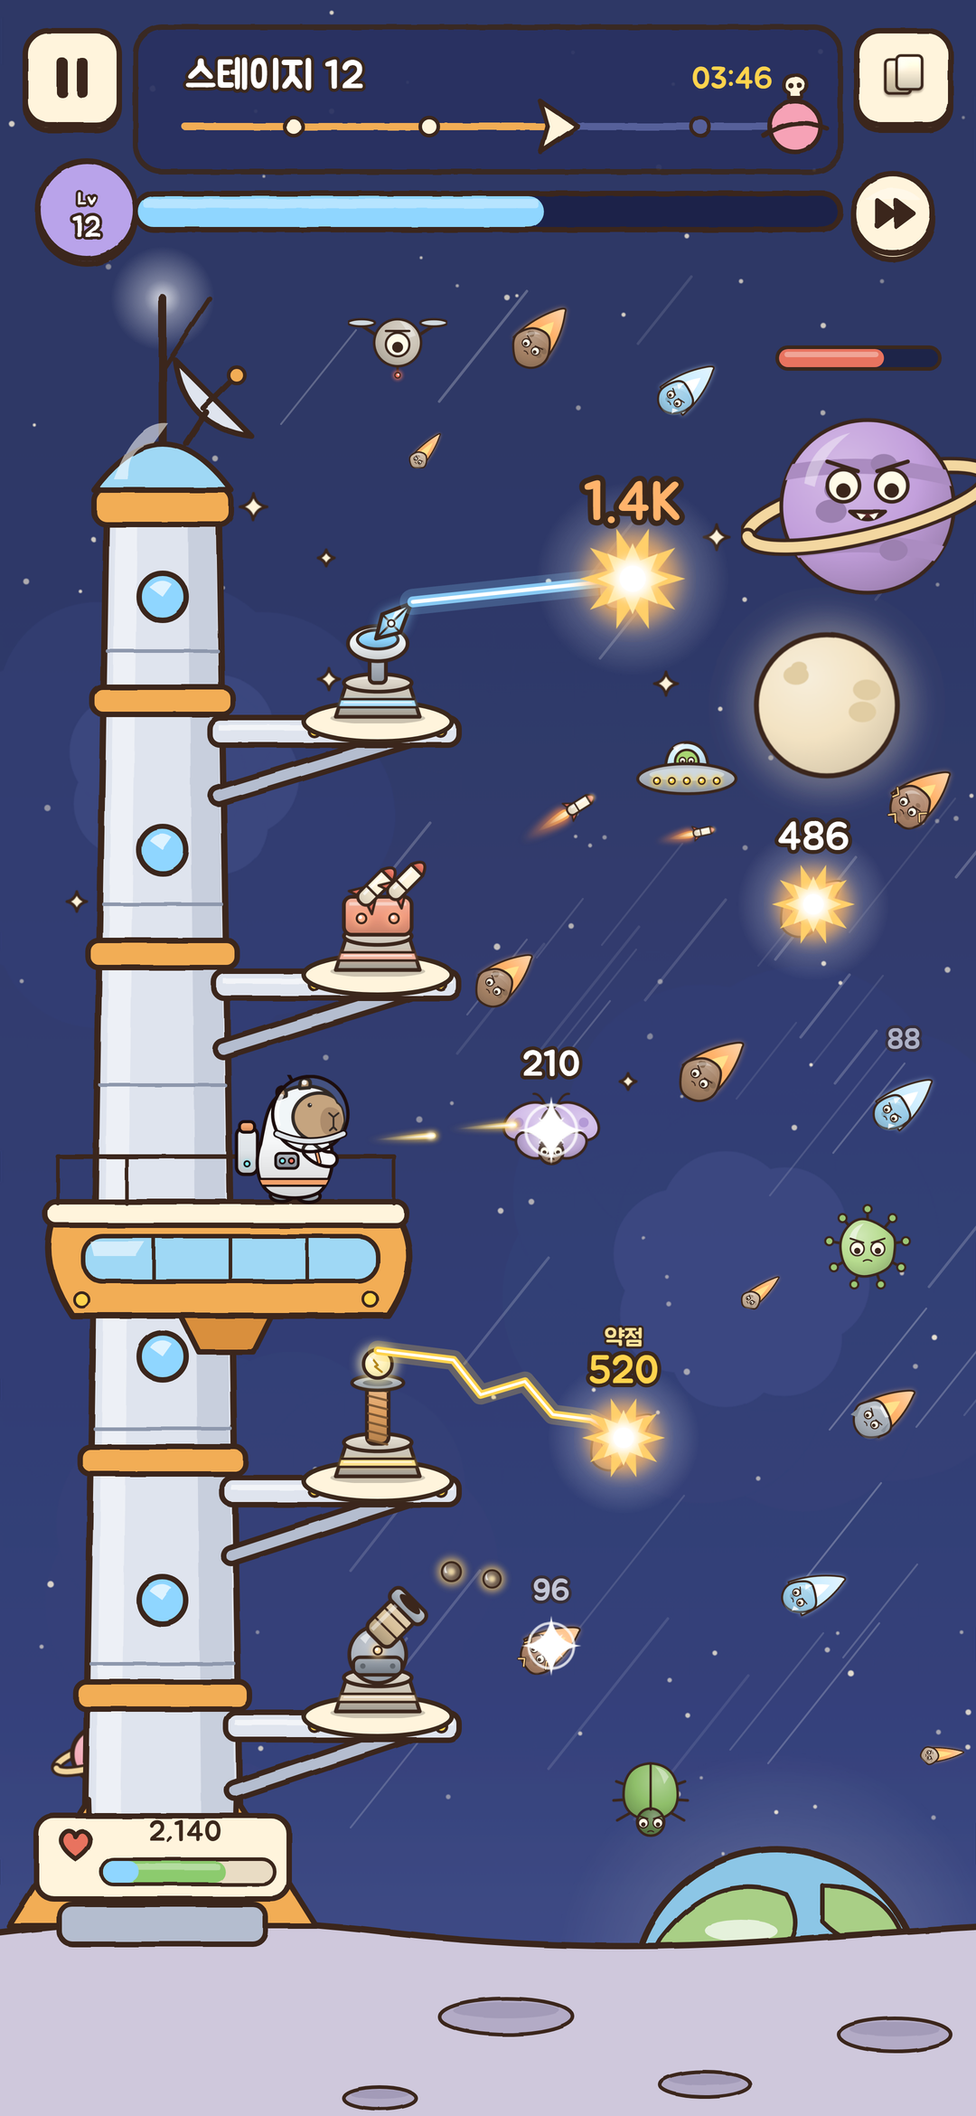
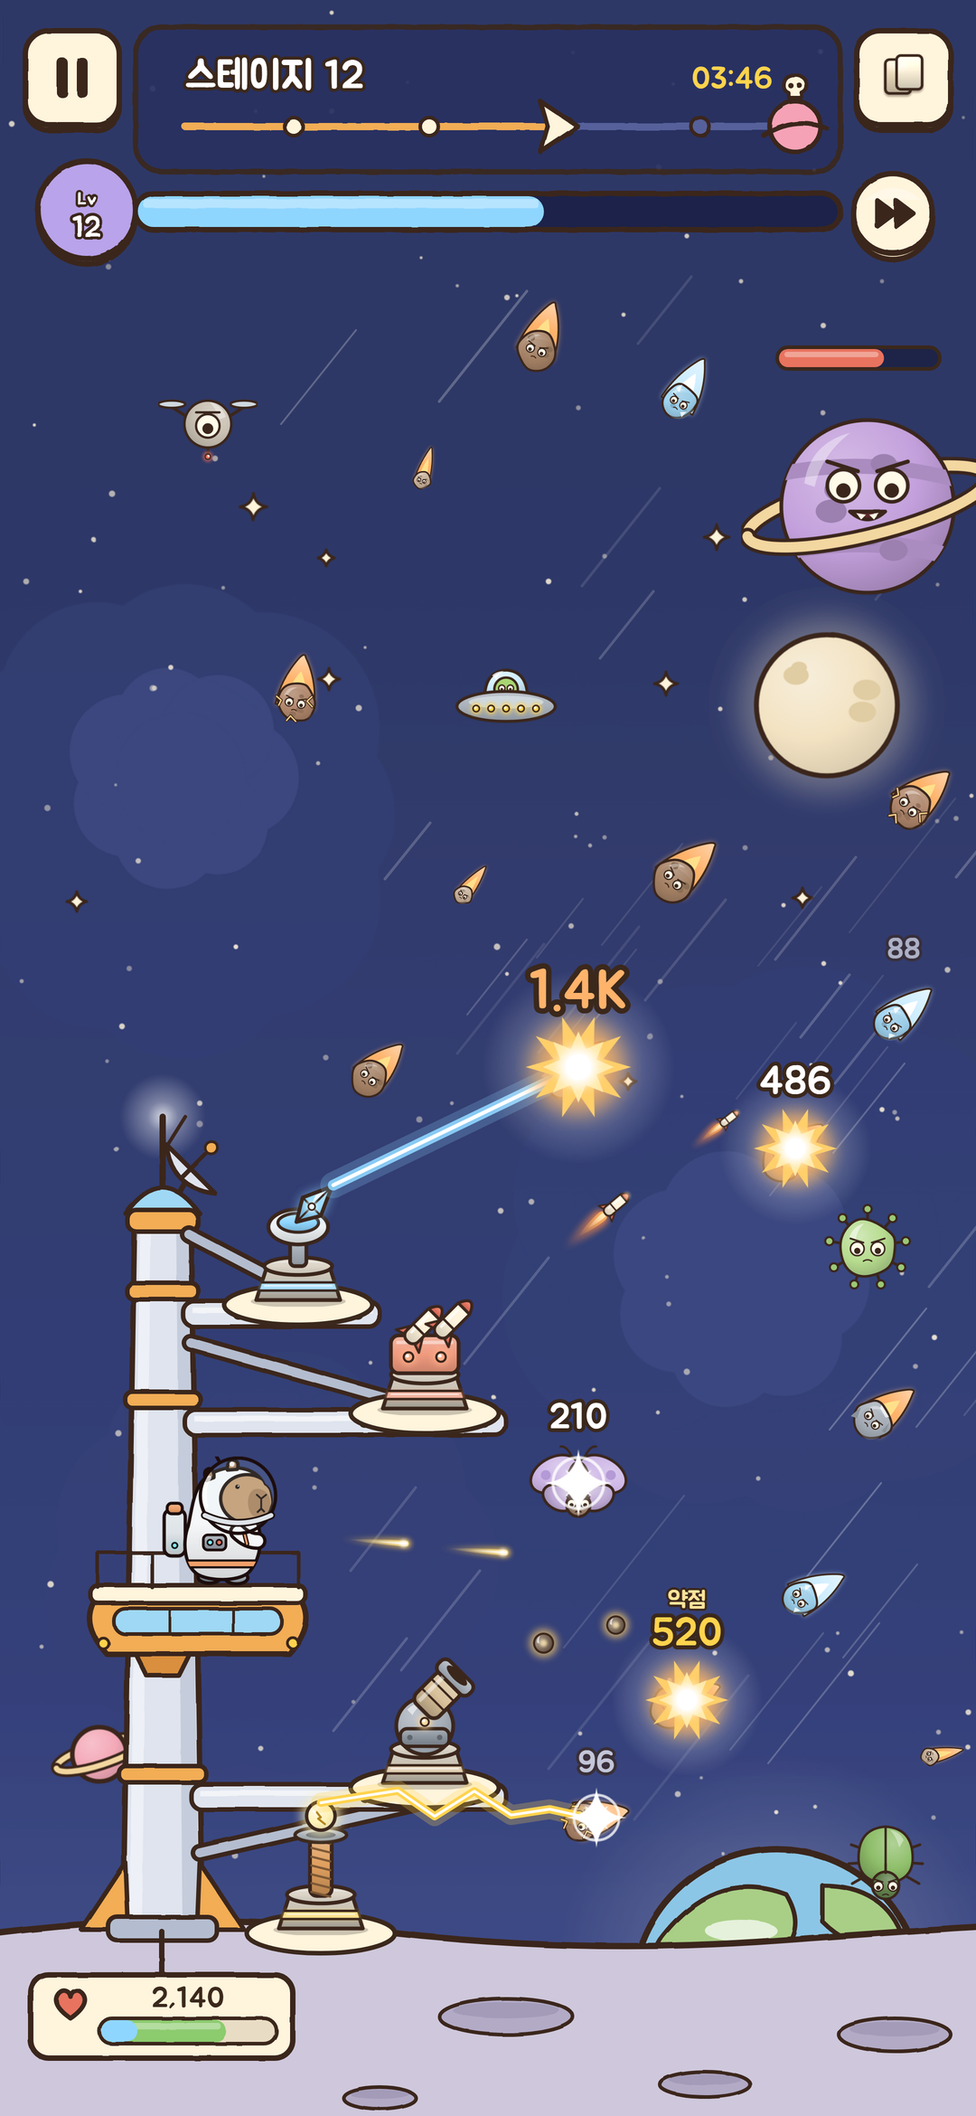
전투 배치 시안: 우주 사령탑 크기 절반 — 탑 그림만 0.5배(K 값), 터렛 4칸 '>' 모양 · 위 칸은 위에서 당기는 버팀대 · 맨 아래 칸 달 바닥 · 체력판 바닥으로, 전·뒤 그림

diff --git a/전투배치_시안.html b/전투배치_시안.html
@@ -45,14 +45,19 @@
 </ol></div>
 
 <h2>우주 사령탑 — 대장 카피 가운데, 위 2칸 · 아래 2칸</h2>
-<div class="cc"><figure><a href="캡쳐본 모음/전투배치_시안/command.png"><img src="캡쳐본 모음/전투배치_시안/command.png"></a><figcaption>2판 (그림을 누르면 원래 크기)</figcaption></figure>
+<div class="tip green"><b>사령탑 크기 절반 (11-18 의견)</b>: 탑 그림만 가로 · 세로 모두 절반으로 줄였습니다. 터렛 · 대장 카피 · 적은 게임 속 크기 그대로입니다. 탑이 낮아져 터렛 4칸을 위아래로 쌓을 자리가 모자라서, 사령실을 가운데 두고 <b>"&gt;" 모양</b>으로 놓았습니다. 위아래 끝 칸은 탑 가까이, 사령실 바로 위아래 칸은 멀리 둡니다. 위 칸 버팀대는 대장 카피를 가리지 않게 <b>위에서 당기는 모양</b>으로 바꿨습니다. 맨 아래 칸은 달 바닥 위에 놓입니다. 그만큼 싸우는 하늘이 넓어졌습니다.</div>
+<div class="row2">
+<figure><a href="캡쳐본 모음/전투배치_시안/command_full.png"><img src="캡쳐본 모음/전투배치_시안/command_full.png"></a><figcaption>전: 처음 2판 (원래 크기)</figcaption></figure>
+<figure><a href="캡쳐본 모음/전투배치_시안/command.png"><img src="캡쳐본 모음/전투배치_시안/command.png"></a><figcaption>뒤: 사령탑 절반</figcaption></figure>
+</div>
+<div class="cc"><figure><a href="캡쳐본 모음/전투배치_시안/command.png"><img src="캡쳐본 모음/전투배치_시안/command.png"></a><figcaption>지금 시안 (그림을 누르면 원래 크기)</figcaption></figure>
 <table>
-<tr><th>기지</th><td>왼쪽에 선 금속 사령탑입니다. 꼭대기에는 유리 관제실 · 레이더 · 깜빡이 안테나를 달았고, 가운데에는 <b>주황 사령실</b>(유리창 띠)이 튀어나와 있습니다. 발 날개 둘로 달 바닥에 섭니다.</td></tr>
+<tr><th>기지</th><td>왼쪽 아래에 선 금속 사령탑입니다(화면 높이의 약 1/3). 꼭대기에는 유리 관제실 · 레이더 · 깜빡이 안테나를 달았고, 가운데에는 <b>주황 사령실</b>(유리창 띠)이 튀어나와 있습니다. 발 날개 둘로 달 바닥에 섭니다. 크기는 값 하나(K)로 바꿀 수 있습니다.</td></tr>
 <tr><th>대장 카피</th><td><b>가운데 사령실 난간 위</b>에 섭니다. 총만 적 쪽으로 돕니다(지금과 같음).</td></tr>
-<tr><th>터렛 배치</th><td>몸통에서 나온 발판에 <b>위 2칸 · 아래 2칸</b>을 둡니다(지금처럼 4칸). 발판마다 아래에 버팀대가 있습니다. 방향이 있는 터렛(대포 · 미사일 · 레이저 등)은 <b>머리가 45° 오른쪽 위</b>를 봅니다.</td></tr>
+<tr><th>터렛 배치</th><td><b>위 2칸 · 아래 2칸</b>(지금처럼 4칸)을 "&gt;" 모양으로 놓습니다. 위 칸은 위에서 당기는 버팀대, 아래 칸은 밑에서 받치는 버팀대이고, 맨 아래 칸은 달 바닥 위입니다. 방향이 있는 터렛(대포 · 미사일 · 레이저 등)은 <b>머리가 45° 오른쪽 위</b>를 봅니다.</td></tr>
 <tr><th>적</th><td>위 가장자리 오른쪽과 오른쪽 가장자리 위쪽에서 나옵니다. 사령탑을 향해 <b>비스듬히 떨어지고</b>, 배경의 빛줄도 같은 방향으로 흐릅니다. 보스는 오른쪽 위 모서리에 반쯤 걸쳐 나옵니다.</td></tr>
 <tr><th>위 줄 UI</th><td>② 방주의 것을 그대로 씁니다. 일시정지 · <b>항로 막대</b>(웨이브 점 → 지금 위치 → 보스 행성) · 시간 · 카드 단추, 그 아래에 레벨 배지 · 경험치 · 배속이 있습니다.</td></tr>
-<tr><th>체력</th><td>사령탑 아래 이름판(하트 · 숫자 · 막대, 파란 앞부분 = 방패)에 있습니다.</td></tr>
+<tr><th>체력</th><td>사령탑 앞 달 바닥의 이름판(하트 · 숫자 · 막대, 파란 앞부분 = 방패)에 있습니다. 탑이 작아져 탑 위에서 바닥으로 옮겼습니다.</td></tr>
 <tr><th>코드 일</th><td><span class="pill p-r">큼 · 2~3일</span> 적이 나오는 자리와 이동 방향, 터렛 칸 좌표 4개, 머리 조각 돌리기, 사령탑 · 달 바닥 그림, 위 줄 UI를 바꿉니다. 피해 공식 · 카드 · 터렛 공격은 그대로입니다(표적은 거리로 고르므로).</td></tr>
 <tr><th>밸런스</th><td><span class="pill p-o">한 번 다시 잼</span> 적이 사령탑까지 오는 거리는 약 1,100~1,700으로, 지금(화면 높이 약 1,500)과 비슷하게 맞출 수 있습니다. 나오는 자리를 그렇게 고른 뒤 밸런스 3차 측정을 한 번 다시 돌립니다.</td></tr>
 </table></div>

diff --git a/tools/layout_mock.py b/tools/layout_mock.py
@@ -499,7 +499,8 @@ def turret_b(t, x, by, w=150, deg=45, pad=True):
     return s, tip
 
 
-def command():
+def command(K=.5):
+    """우주 사령탑. K = 탑 크기 배율(11-18 사용자 "절반으로" → .5). 선 굵기 · 터렛 · 대장 카피 크기는 그대로"""
     random.seed(41)
     s = stars_bg()
     # 비스듬히 떨어지는 빛줄 (오른쪽 위 → 왼쪽 아래)
@@ -511,10 +512,9 @@ def command():
     # 지평선 위로 떠오르는 지구 (지키는 것)
     ex, ey, er = 860, 2205, 160
     e = C(ex, ey, er, '#8cc6e6', 7)
-    e += F(f'M{ex - 130} {ey - 60} Q{ex - 70} {ey - 140} {ex + 10} {ey - 110} Q{ex + 40} {ey - 60} {ex - 20} {ey - 30} Q{ex - 90} {ey} {ex - 120} {ey + 20} Q{ex - 160} {ey - 10} {ex - 130} {ey - 60} Z', '#a9cf86')
-    e += L(f'M{ex - 130} {ey - 60} Q{ex - 70} {ey - 140} {ex + 10} {ey - 110} Q{ex + 40} {ey - 60} {ex - 20} {ey - 30} Q{ex - 90} {ey} {ex - 120} {ey + 20} Q{ex - 160} {ey - 10} {ex - 130} {ey - 60} Z', 5)
-    e += F(f'M{ex + 50} {ey - 120} Q{ex + 120} {ey - 120} {ex + 140} {ey - 60} Q{ex + 90} {ey - 40} {ex + 50} {ey - 80} Z', '#a9cf86')
-    e += L(f'M{ex + 50} {ey - 120} Q{ex + 120} {ey - 120} {ex + 140} {ey - 60} Q{ex + 90} {ey - 40} {ex + 50} {ey - 80} Z', 5)
+    for d in (f'M{ex - 130} {ey - 60} Q{ex - 70} {ey - 140} {ex + 10} {ey - 110} Q{ex + 40} {ey - 60} {ex - 20} {ey - 30} Q{ex - 90} {ey} {ex - 120} {ey + 20} Q{ex - 160} {ey - 10} {ex - 130} {ey - 60} Z',
+              f'M{ex + 50} {ey - 120} Q{ex + 120} {ey - 120} {ex + 140} {ey - 60} Q{ex + 90} {ey - 40} {ex + 50} {ey - 80} Z'):
+        e += F(d, '#a9cf86') + L(d, 5)
     e += f'<ellipse cx="{ex - 40}" cy="{ey - 70}" rx="40" ry="12" fill="#fff" opacity=".7"/>'
     s += spr('Fx/glow', ex, ey - 20, 520, op=.35) + wob(e, 2.5, .02)
     # 달 바닥
@@ -523,80 +523,84 @@ def command():
         gnd += f'<ellipse cx="{cx_}" cy="{cy_}" rx="{rx}" ry="{ry}" fill="#b3abc6" stroke="{INK}" stroke-width="4"/>'
         gnd += f'<ellipse cx="{cx_}" cy="{cy_ - ry * .35:.0f}" rx="{rx * .8:.0f}" ry="{ry * .45:.0f}" fill="#a39bb8"/>'
     s += wob(gnd, 2.5, .02)
-    # ---- 사령탑 ----
-    v = ''
-    top = 560
-    xl0, xr0, xl1, xr1 = 92, 268, 118, 242
+    # ---- 사령탑 (BX = 몸통 가운데) ----
+    BX = 180
+    top = G - 1580 * K
+    hb, ht = 88 * K, 62 * K                       # 아래 · 위 반폭
+    xl0, xr0, xl1, xr1 = BX - hb, BX + hb, BX - ht, BX + ht
     def xl(y): return xl0 + (xl1 - xl0) * (G - y) / (G - top)
     def xr(y): return xr0 + (xr1 - xr0) * (G - y) / (G - top)
-    # 안테나 · 레이더 (적이 오는 오른쪽 위를 봄)
-    v += L(f'M180 {top - 60} L180 {top - 230}', 9) + L(f'M180 {top - 150} L232 {top - 230}', 5)
-    v += f'<g transform="rotate(45 236 {top - 120})">' + P(f'M176 {top - 120} Q236 {top - 74} 296 {top - 120} Z', STEEL, 6) + L(f'M236 {top - 104} L236 {top - 150}', 6) + C(236, top - 156, 9, ORANGE, 4) + '</g>'
-    v += L(f'M206 {top - 70} L228 {top - 104}', 7)
-    # 몸통 (위로 가늘어짐) · 판 이음줄 · 동그란 창
-    v += P(f'M{xl0} {G} L{xl1} {top} L{xr1} {top} L{xr0} {G} Z', STEEL, 7)
-    v += F(f'M{xr0 - 44} {G - 4} L{xr1 - 34} {top + 6} L{xr1 - 4} {top + 6} L{xr0 - 6} {G - 4} Z', STEEL2, .55)
-    v += F(f'M{xl0 + 12} {G - 4} L{xl1 + 10} {top + 6} L{xl1 + 34} {top + 6} L{xl0 + 40} {G - 4} Z', '#fff', .45)
-    for y in (720, 1000, 1200, 1580, 1840):
-        v += L(f'M{xl(y) + 4:.0f} {y} L{xr(y) - 4:.0f} {y}', 4, '#8e98ad')
-    for y in (660, 940, 1500, 1770):
-        v += C(180, y, 26, SKY, 6) + F(f'M{166} {y - 10} A16 16 0 0 1 {190} {y - 14} L{180} {y} Z', '#fff', .7)
-    v += rr(xl1 - 14, top - 20, xr1 - xl1 + 28, 40, 14, ORANGE, 6)
-    # 아래 받침 (발 날개 둘)
-    v += P(f'M{xl0 + 6} {G - 150} L10 {G - 10} L{xl0 + 10} {G - 10} Z', ORANGE, 6) + P(f'M{xr0 - 6} {G - 150} L350 {G - 10} L{xr0 - 10} {G - 10} Z', ORANGE, 6)
-    v += rr(xl0 - 26, G - 34, xr0 - xl0 + 52, 44, 14, STEEL2, 6)
+    v = ''
+    # 안테나 · 레이더 (오른쪽 위를 봄)
+    ah = 230 * K
+    v += L(f'M{BX} {top - 40 * K} L{BX} {top - ah}', 7) + L(f'M{BX} {top - ah * .65:.0f} L{BX + 30 * K + 10:.0f} {top - ah:.0f}', 4)
+    dx, dy, dr = BX + 50 * K + 6, top - 115 * K, 60 * K + 8
+    v += L(f'M{BX + 12} {top - 40 * K} L{dx - 4:.0f} {dy + 12:.0f}', 6)
+    v += f'<g transform="rotate(45 {dx:.1f} {dy:.1f})">' + P(f'M{dx - dr:.1f} {dy:.1f} Q{dx:.1f} {dy + dr * .8:.1f} {dx + dr:.1f} {dy:.1f} Z', STEEL, 5) + L(f'M{dx:.1f} {dy + 12:.1f} L{dx:.1f} {dy - dr * .7:.1f}', 5) + C(dx, dy - dr * .7 - 6, 7, ORANGE, 3) + '</g>'
+    # 꼭대기 유리 지붕
+    v += P(f'M{xl1 - 10:.1f} {top - 8:.1f} Q{BX} {top - 70 * K - 30:.1f} {xr1 + 10:.1f} {top - 8:.1f} Z', '#9fd8f5', 5)
+    # 몸통 · 빛 · 그늘 · 판 이음줄 · 창
+    v += P(f'M{xl0:.1f} {G} L{xl1:.1f} {top:.1f} L{xr1:.1f} {top:.1f} L{xr0:.1f} {G} Z', STEEL, 6)
+    v += F(f'M{xr0 - 22:.1f} {G - 4} L{xr1 - 16:.1f} {top + 6:.1f} L{xr1 - 3:.1f} {top + 6:.1f} L{xr0 - 4:.1f} {G - 4} Z', STEEL2, .6)
+    v += F(f'M{xl0 + 7:.1f} {G - 4} L{xl1 + 6:.1f} {top + 6:.1f} L{xl1 + 18:.1f} {top + 6:.1f} L{xl0 + 21:.1f} {G - 4} Z', '#fff', .45)
+    v += rr(xl1 - 8, top - 12, xr1 - xl1 + 16, 24, 10, ORANGE, 5)
     # 가운데 사령실 (대장 카피 자리)
-    DY = 1345
-    v += P(f'M60 {DY} L440 {DY} Q470 {DY + 50} 430 {DY + 110} L80 {DY + 110} Q40 {DY + 50} 60 {DY} Z', ORANGE, 7)
-    v += rr(92, DY + 22, 326, 50, 22, '#9fd8f5', 5)
-    for x in (170, 255, 340): v += L(f'M{x} {DY + 24} L{x} {DY + 70}', 4)
-    v += F(f'M100 {DY + 28} L160 {DY + 28} L150 {DY + 44} L104 {DY + 44} Z', '#fff', .55)
-    v += P(f'M200 {DY + 110} L300 {DY + 110} L280 {DY + 150} L220 {DY + 150} Z', ORANGE2, 6)
-    v += rr(50, DY - 16, 400, 26, 12, CREAM, 6)
-    v += L(f'M64 {DY - 66} L436 {DY - 66}', 5) + ''.join(L(f'M{x} {DY - 66} L{x} {DY - 14}', 4) for x in (64, 140, 436))
-    for x in (90, 410): v += C(x, DY + 92, 8, GOLD, 3)
-    # 체력 이름판 (② 방주처럼 기지 위에)
-    v += rr(40, G - 132, 280, 92, 20, CREAM, 6) + heart(84, G - 100, 40) + bar(112, G - 84, 192, 28, .72, GREEN, '#e9dcc4', 4)
-    v += f'<rect x="114" y="{G - 82}" width="40" height="24" rx="12" fill="{SKY}"/>'
-    # 터렛 발판 (몸통에서 나온 판 + 아래 버팀대) · 이음 고리
-    slots = [(800, 'laser'), (1080, 'missile'), (1640, 'tesla'), (1900, 'cannon')]
-    MX = 418
-    for y, t in slots:
-        v += rr(xl(y) - 12, y - 40, xr(y) - xl(y) + 24, 30, 12, ORANGE, 6)
-        v += L(f'M{xr(y) - 4:.0f} {y + 80} L{MX + 40} {y + 14}', 24) + L(f'M{xr(y) - 4:.0f} {y + 80} L{MX + 40} {y + 14}', 12, STEEL2)
-        v += rr(xr(y) - 14, y - 6, MX + 104 - xr(y), 30, 12, STEEL, 6) + F(f'M{xr(y) - 4:.0f} {y + 2} L{MX + 84} {y + 2} L{MX + 84} {y + 8} L{xr(y) - 4:.0f} {y + 8} Z', '#fff', .6)
-        for lx in (MX - 70, MX + 70): v += C(lx, y + 9, 6, GOLD, 3)
-    # 꼭대기 유리 지붕 (관제실)
-    v += P(f'M{xl1 - 14} {top - 18} Q180 {top - 120} {xr1 + 14} {top - 18} Z', '#9fd8f5', 6) + F(f'M{xl1 + 8} {top - 30} Q150 {top - 96} 186 {top - 92} L170 {top - 70} Q140 {top - 66} {xl1 + 24} {top - 30} Z', '#fff', .55)
-    s += spr('Fx/glow', 180, top - 230, 120, op=.8)
-    s += wob(v, 2.5, .018)
-    s += T(205, G - 104, '2,140', 32, INK, sw=0)
+    DY = G - 790 * K * 1.0 + 0          # 몸통 가운데쯤
+    DY = top + (G - top) * .5 + 20
+    dl, drr, dh = BX - 72, BX + 150, 64
+    v += P(f'M{dl} {DY} L{drr} {DY} Q{drr + 22} {DY + dh * .45:.1f} {drr - 10} {DY + dh} L{dl + 10} {DY + dh} Q{dl - 22} {DY + dh * .45:.1f} {dl} {DY} Z', ORANGE, 6)
+    v += rr(dl + 18, DY + 14, drr - dl - 36, 28, 13, '#9fd8f5', 4)
+    for x in (dl + 80, dl + 150): v += L(f'M{x} {DY + 15} L{x} {DY + 41}', 3)
+    v += P(f'M{BX - 30} {DY + dh} L{BX + 30} {DY + dh} L{BX + 18} {DY + dh + 24} L{BX - 18} {DY + dh + 24} Z', ORANGE2, 5)
+    v += rr(dl - 8, DY - 12, drr - dl + 16, 20, 9, CREAM, 5)
+    v += L(f'M{dl} {DY - 48} L{drr} {DY - 48}', 4) + ''.join(L(f'M{x} {DY - 48} L{x} {DY - 10}', 4) for x in (dl, dl + 60, drr))
+    for x in (dl + 6, drr - 6): v += C(x, DY + dh - 12, 6, GOLD, 3)
+    # 아래 받침 (발 날개 둘)
+    v += P(f'M{xl0 + 3:.1f} {G - 80} L{xl0 - 46:.1f} {G - 6} L{xl0 + 6:.1f} {G - 6} Z', ORANGE, 5) + P(f'M{xr0 - 3:.1f} {G - 80} L{xr0 + 46:.1f} {G - 6} L{xr0 - 6:.1f} {G - 6} Z', ORANGE, 5)
+    v += rr(xl0 - 16, G - 20, xr0 - xl0 + 32, 26, 10, STEEL2, 5)
+    # 터렛 자리: 위 2 · 아래 2 (가운데 사령실을 향해 ">" 모양 — 가까운 칸 / 먼 칸)
+    slots = [(top + 95, 'laser', BX + 150), (DY - 200, 'missile', BX + 290), (DY + dh + 150, 'cannon', BX + 290), (G, 'tesla', BX + 175)]
+    for y, t, mx in slots:
+        if y >= G: continue                       # 맨 아래 칸은 달 바닥 위
+        v += rr(xl(y) - 7, y - 26, xr(y) - xl(y) + 14, 18, 8, ORANGE, 5)
+        by_ = y - 80 if y < DY else y + 70          # 위 칸은 위에서 당기는 버팀대(대장 카피를 안 가리게), 아래 칸은 밑에서 받침
+        v += L(f'M{xr(by_) - 2:.0f} {by_} L{mx + 40} {y + 4}', 20) + L(f'M{xr(by_) - 2:.0f} {by_} L{mx + 40} {y + 4}', 10, STEEL2)
+        v += rr(xr(y) - 10, y - 6, mx + 100 - xr(y), 28, 12, STEEL, 5) + F(f'M{xr(y):.0f} {y + 1} L{mx + 82} {y + 1} L{mx + 82} {y + 7} L{xr(y):.0f} {y + 7} Z', '#fff', .6)
+        for lx in (mx - 66, mx + 66): v += C(lx, y + 8, 5, GOLD, 3)
+    s += spr('Fx/glow', BX, top - ah, 100, op=.8)
+    s += wob(v, 2.2, .02)
+    # 체력 이름판 (사령탑 앞 달 바닥)
+    PX, PY = 34, G + 44
+    hp = rr(PX, PY, 290, 92, 20, CREAM, 6) + heart(PX + 44, PY + 32, 40) + bar(PX + 76, PY + 48, 196, 28, .72, GREEN, '#e9dcc4', 4)
+    hp += f'<rect x="{PX + 78}" y="{PY + 50}" width="40" height="24" rx="12" fill="{SKY}"/>' + L(f'M{PX + 145} {PY} L{PX + 145} {G - 4}', 6)
+    s += wob(hp, 1.5, .04) + T(PX + 174, PY + 36, '2,140', 32, INK, sw=0)
     tips = {}
-    for y, t in slots:
-        g, tip = turret_b(t, MX, y, 150); s += g; tips['Turret/' + t] = tip
-    s += spr('Char/guardian', 330, DY - 10, 150, bottom=True)
-    # 적: 오른쪽 위에서 왼쪽 아래 사령탑으로 (운석 꼬리는 오른쪽 위)
+    for y, t, mx in slots:
+        g, tip = turret_b(t, mx, y, 150); s += g; tips[t] = tip
+    s += spr('Char/guardian', BX + 70, DY - 8, 150, bottom=True)
+    gx, gy = BX + 130, DY - 80                     # 대장 카피 총구 근처
+    # 적: 오른쪽 위에서 사령탑 쪽으로 비스듬히 (운석 꼬리는 오른쪽 위)
     def aim(x, y):
-        return 300, min(2000, max(700, y + (x - 300) * .8))
-    for n, x, y, w in [('Enemy/fire', 600, 370, 96), ('Enemy/ice', 760, 430, 92), ('Enemy/pebble', 470, 500, 64), ('Enemy/iron', 700, 640, 104),
-                       ('Enemy/crack', 1020, 880, 100), ('Enemy/fire', 900, 1000, 100), ('Enemy/ice', 1000, 1220, 96), ('Enemy/fire', 790, 1180, 104),
-                       ('Enemy/iron', 980, 1560, 96), ('Enemy/pebble', 840, 1430, 68), ('Enemy/fire', 690, 1590, 100), ('Enemy/ice', 900, 1760, 92),
-                       ('Enemy/crack', 610, 1820, 92), ('Enemy/pebble', 1040, 1940, 64), ('Enemy/fire', 560, 1080, 92)]:
+        return BX + 40, min(G - 40, max(top, y + (x - BX) * .8))
+    for n, x, y, w in [('Enemy/fire', 600, 370, 96), ('Enemy/ice', 760, 430, 92), ('Enemy/pebble', 470, 520, 64), ('Enemy/crack', 330, 760, 92),
+                       ('Enemy/iron', 640, 1180, 104), ('Enemy/crack', 1020, 880, 100), ('Enemy/fire', 880, 1270, 100), ('Enemy/ice', 1000, 1120, 96),
+                       ('Enemy/fire', 760, 960, 104), ('Enemy/pebble', 520, 980, 68), ('Enemy/iron', 980, 1560, 96), ('Enemy/fire', 760, 1880, 100),
+                       ('Enemy/ice', 900, 1760, 92), ('Enemy/crack', 660, 2010, 92), ('Enemy/pebble', 1040, 1940, 64), ('Enemy/fire', 420, 1180, 88)]:
         tx, ty = aim(x, y); s += meteor(n, x, y, w, tx, ty)
-    for n, x, y, w, fl in [('Enemy/moth', 610, 1250, 120, True), ('Enemy/jelly', 960, 1380, 110, False), ('Enemy/ufo', 760, 860, 130, False),
-                           ('Enemy/beetle', 720, 1990, 110, True), ('Enemy/sdrone', 440, 380, 110, True)]:
+    for n, x, y, w, fl in [('Enemy/moth', 640, 1640, 120, True), ('Enemy/jelly', 960, 1380, 110, False), ('Enemy/ufo', 560, 780, 130, False),
+                           ('Enemy/beetle', 980, 2060, 110, True), ('Enemy/sdrone', 230, 470, 110, True)]:
         s += spr(n, x, y, w, flip=fl)
     # 보스 (오른쪽 위 모서리에 반쯤)
     s += spr('Enemy/planet', 960, 560, 280) + bar(860, 384, 180, 24, .66, RED, sw=4)
     # 공격 (오른쪽 위로)
-    lx, ly = tips['Turret/laser']; s += beam(lx, ly, 700, 640, SKY, 12)
-    mx_, my_ = tips['Turret/missile']; s += shot('Fx/missile', mx_ + 150, my_ - 50, -32, 110) + shot('Fx/mini_missile', mx_ + 290, my_ - 30, -12, 80)
-    tx_, ty_ = tips['Turret/tesla']; s += zap(tx_, ty_, 690, 1590, 7)
-    cx_, cy_ = tips['Turret/cannon']; s += shot('Fx/cannonball', cx_ + 40, cy_ - 30, -45, 48) + shot('Fx/cannonball', cx_ + 85, cy_ - 22, -45, 44)
-    s += shot('Fx/bullet', 450, 1258, -4, 100) + shot('Fx/bullet', 540, 1246, -4, 100)
-    s += boom(700, 640, 140) + boom(900, 1000, 110) + boom(690, 1590, 110) + spr('Fx/hit', 610, 1250, 90) + spr('Fx/hit', 610, 1820, 80)
-    s += dmg(700, 575, '1.4K', 60, '#ffb36b') + dmg(900, 940, '486', 44) + dmg(690, 1530, '520', 44, '#ffd34d') + T(690, 1488, '약점', 26, '#fde39a', sw=5)
-    s += dmg(610, 1190, '210', 40) + dmg(610, 1770, '96', 34, '#fff', .7) + dmg(1000, 1160, '88', 32, '#fff', .6)
+    lx, ly = tips['laser']; s += beam(lx, ly, 640, 1180, SKY, 12)
+    mx_, my_ = tips['missile']; s += shot('Fx/missile', mx_ + 140, my_ - 90, -40, 110) + shot('Fx/mini_missile', mx_ + 270, my_ - 190, -38, 80)
+    tx_, ty_ = tips['tesla']; s += zap(tx_, ty_, 650, 2010, 7)
+    cx_, cy_ = tips['cannon']; s += shot('Fx/cannonball', cx_ + 90, cy_ - 30, -30, 48) + shot('Fx/cannonball', cx_ + 170, cy_ - 50, -25, 44)
+    s += shot('Fx/bullet', gx + 110, gy + 20, 4, 100) + shot('Fx/bullet', gx + 220, gy + 30, 4, 100)
+    s += boom(640, 1180, 140) + boom(880, 1270, 110) + boom(760, 1880, 110) + spr('Fx/hit', 640, 1640, 90) + spr('Fx/hit', 660, 2010, 80)
+    s += dmg(640, 1115, '1.4K', 60, '#ffb36b') + dmg(880, 1210, '486', 44) + dmg(760, 1820, '520', 44, '#ffd34d') + T(760, 1778, '약점', 26, '#fde39a', sw=5)
+    s += dmg(640, 1580, '210', 40) + dmg(660, 1960, '96', 34, '#fff', .7) + dmg(1000, 1060, '88', 32, '#fff', .6)
     s += hud_route()
     return s
 

diff --git a/CLAUDE.md b/CLAUDE.md
@@ -4,6 +4,7 @@
 - 1판 의견(키 earthdef-layout-1118): ③ 배치 + ② 방주 위 줄(항로 막대) · 등대 → **우주 사령탑** · 대장 카피 가운데 · 위 2 아래 2 · 터렛 45° · 운석 오른쪽 위 → 왼쪽 아래 · 순서 = 배치 → 전투 UI 제안 → 밸런스 3차.
 - 2판 = `전투배치_시안.html` (키 earthdef-layout2-1118, 그림 `캡쳐본 모음/전투배치_시안/command.png` · `tilt.png`, `tools/layout_mock.py command tilt`). 결정 대기: l2-ok · l2-tilt(추천 B 머리 조각만 45°, 쏠 때 적 쪽으로) · l2-move(추천 가운데 고정) · l2-look(로비 · 외형 7종 사령탑으로).
 - 해석(보고 첫머리): 운석은 모두 같은 방향이면 아래쪽이 바닥에 떨어져 사령탑 여러 높이를 겨눔 · 바닥 = 달 + 지평선 지구 · 체력 = 사령탑 아래 이름판(② 방식). 지난 판 문서 백업 = 세션 스크래치 전투배치_시안_before_2판.html.
+- 사용자 "사령탑 크기 절반" → `command(K=.5)`: 탑 그림만 절반(터렛 · 대장 카피 · 적은 그대로), 4칸 "&gt;" 모양(위 칸 버팀대는 위에서 당김 · 맨 아래 칸은 달 바닥) · 체력판은 바닥으로. 전 = command_full.png.
 - 다음: 승인되면 게임에 옮김(적 나오는 자리 · 방향 · 터렛 칸 · 머리 돌리기 · 그림 · 위 줄) → 시험 → 전투UI_제안 → 밸런스 3차 다시 측정.
 
 ## ▶ 재개 메모 (2026-11-18 — 밸런스 3차 · 지금까지 검토)
